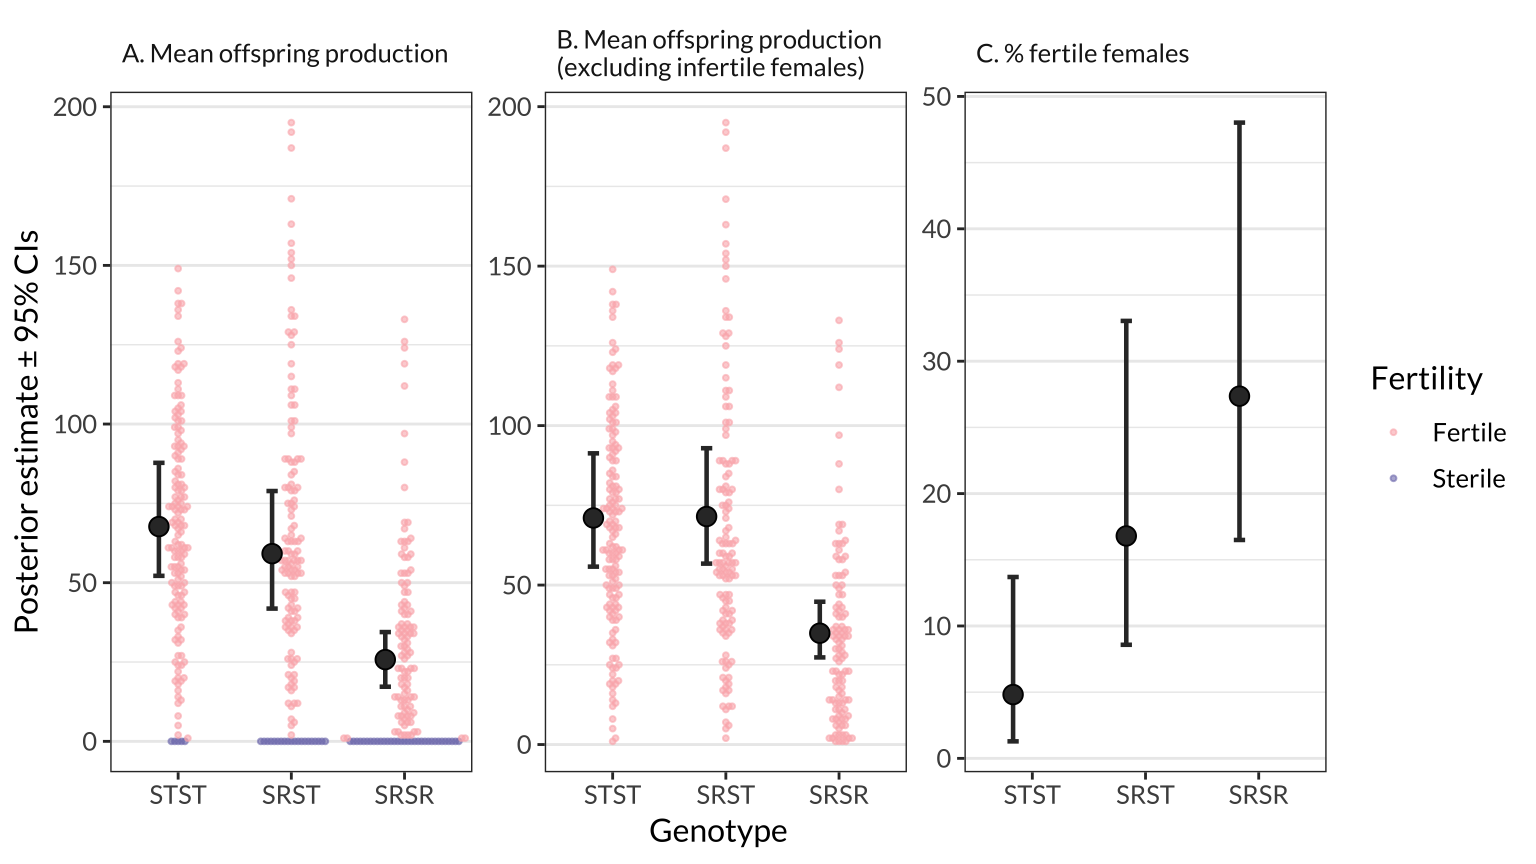
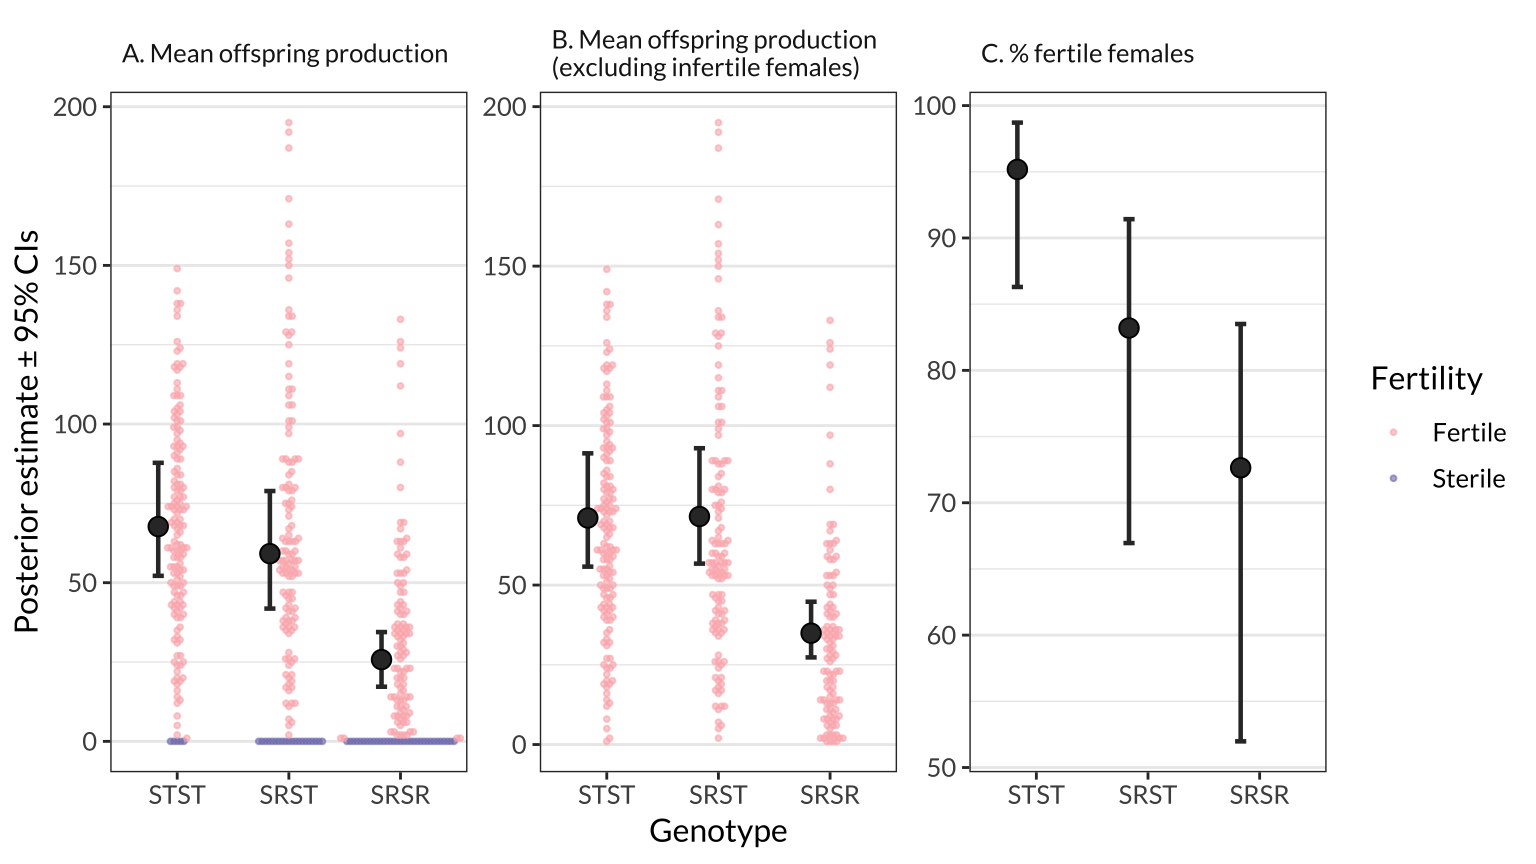
Build site.

diff --git a/docs/statistics.html b/docs/statistics.html
@@ -411,10 +411,10 @@ This reproducible <a href="http://rmarkdown.rstudio.com">R Markdown</a> analysis
 <div class="panel panel-default">
 <div class="panel-heading">
 <p class="panel-title">
-<a data-toggle="collapse" data-parent="#workflowr-checks" href="#strongRepositoryversionstrongfc7812e"> <span class="glyphicon glyphicon-ok text-success" aria-hidden="true"></span> <strong>Repository version:</strong> fc7812e </a>
+<a data-toggle="collapse" data-parent="#workflowr-checks" href="#strongRepositoryversionstrong44d4565"> <span class="glyphicon glyphicon-ok text-success" aria-hidden="true"></span> <strong>Repository version:</strong> 44d4565 </a>
 </p>
 </div>
-<div id="strongRepositoryversionstrongfc7812e" class="panel-collapse collapse">
+<div id="strongRepositoryversionstrong44d4565" class="panel-collapse collapse">
 <div class="panel-body">
 <p>
 Great! You are using Git for version control. Tracking code development and connecting the code version to the results is critical for reproducibility. The version displayed above was the version of the Git repository at the time these results were generated. <br><br> Note that you need to be careful to ensure that all relevant files for the analysis have been committed to Git prior to generating the results (you can use <code>wflow_publish</code> or <code>wflow_git_commit</code>). workflowr only checks the R Markdown file, but you know if there are other scripts or data files that it depends on. Below is the status of the Git repository when the results were generated:
@@ -424,6 +424,7 @@ Ignored files:
     Ignored:    .DS_Store
     Ignored:    .Rhistory
     Ignored:    .Rproj.user/
+    Ignored:    analysis/figure/
 
 </code></pre>
 <p>
@@ -462,6 +463,40 @@ Message
 </tr>
 </thead>
 <tbody>
+<tr>
+<td>
+Rmd
+</td>
+<td>
+44d4565
+</td>
+<td>
+lukeholman
+</td>
+<td>
+2019-06-28
+</td>
+<td>
+First complete commit
+</td>
+</tr>
+<tr>
+<td>
+html
+</td>
+<td>
+e2cfeac
+</td>
+<td>
+lukeholman
+</td>
+<td>
+2019-06-28
+</td>
+<td>
+Build site.
+</td>
+</tr>
 <tr>
 <td>
 Rmd
@@ -1941,7 +1976,7 @@ predicted_mean &lt;- data.frame(new, fitted(model, newdata = new, re_formula = N
   mutate(facet = &quot;A. Mean offspring production&quot;)
 predicted_mean_when_fertile &lt;- data.frame(new, fitted(model, newdata = new, dpar = &quot;mu&quot;, re_formula = NA)) %&gt;%
   mutate(facet = &quot;B. Mean offspring production\n(excluding infertile females)&quot;)
-predicted_prop_infertile &lt;- data.frame(new, fitted(model, newdata = new, dpar = &quot;hu&quot;, re_formula = NA)) %&gt;% 
+predicted_prop_fertile &lt;- data.frame(new, fitted(model, newdata = new, dpar = &quot;hu&quot;, re_formula = NA)) %&gt;% 
   mutate(facet = &quot;C. % fertile females&quot;,
          Estimate = 100 * (1 - Estimate), Q2.5 = (1 - Q2.5) * 100, Q97.5 = (1 - Q97.5) * 100)
 
@@ -1970,26 +2005,26 @@ predicted_mean_when_fertile_all_iso &lt;- data.frame(
   posterior_means_when_fertile %&gt;% lapply(posterior_summary) %&gt;% do.call(&quot;rbind&quot;, .),
   facet = &quot;B. Mean offspring production\n(excluding infertile females)&quot;) 
 
-posterior_means_prop_infertile &lt;- 
+posterior_means_prop_fertile &lt;- 
   data.frame(new, as.data.frame(t(fitted(model, newdata = new, dpar = &quot;hu&quot;, re_formula = NA, summary = FALSE)))) %&gt;%
   select(-body_size, -female_age, -Isoline) %&gt;%
   group_by(genotype) %&gt;%
-  summarise_all(~ 100 * mean(.x)) %&gt;% select(-genotype) %&gt;% t() %&gt;% as.data.frame() %&gt;%
+  summarise_all(~ 100 * (1 - mean(.x))) %&gt;% select(-genotype) %&gt;% t() %&gt;% as.data.frame() %&gt;%
   rename(STST = V1, SRST = V2, SRSR = V3)
   
-predicted_prop_infertile_all_iso &lt;- data.frame(
+predicted_prop_fertile_all_iso &lt;- data.frame(
   genotype = c(&quot;STST&quot;, &quot;SRST&quot;, &quot;SRSR&quot;), Isoline = &quot;All&quot;, 
-  posterior_means_prop_infertile %&gt;% lapply(posterior_summary) %&gt;% do.call(&quot;rbind&quot;, .),
+  posterior_means_prop_fertile %&gt;% lapply(posterior_summary) %&gt;% do.call(&quot;rbind&quot;, .),
   facet = &quot;C. % fertile females&quot;) 
 
 preds_figure1 &lt;- bind_rows(predicted_mean_all_iso,
                    predicted_mean_when_fertile_all_iso,
-                   predicted_prop_infertile_all_iso) %&gt;%
+                   predicted_prop_fertile_all_iso) %&gt;%
   mutate(genotype = factor(genotype, levels = c(&quot;STST&quot;, &quot;SRST&quot;, &quot;SRSR&quot;)))
 
 preds_figure2 &lt;- bind_rows(predicted_mean,
                          predicted_mean_when_fertile,
-                         predicted_prop_infertile) %&gt;%
+                         predicted_prop_fertile) %&gt;%
   mutate(facet = factor(facet, levels = unique(facet)),
          genotype = factor(genotype, levels = c(&quot;STST&quot;, &quot;SRST&quot;, &quot;SRSR&quot;))) %&gt;%
   select(-body_size, -female_age)
@@ -2119,19 +2154,20 @@ lukeholman
 </div>
 <div id="calculated-pairwise-differences-between-genotypes" class="section level2">
 <h2>Calculated pairwise differences between genotypes</h2>
+<p><strong>Table 1</strong>: Pairwise comparisons of genotypes for three measures of female fitness: mean offspring production, mean offspring production (not including females that produced zero offspring), and the % females that produced at least one offspring. The difference in means column shows the posterior estimate of the difference in means in its original units (i.e. offspring, or percentage points), where a negative difference means that genotype with more copies of SR has lower female fitness (parentheses show the 95% quantiles of this posterior, and the Est.Error column gives the average deviation from the mean). The relative difference column expresses the difference in relative terms; e.g. the first row shows that mean number of offspring produced by SRST females was 87.7% as much as that of STST females. Finally, the p column shows the posterior probability that the true difference in means is zero or of the opposite sign to the estiamte shown here (similar to a conventional p-value).</p>
 <pre class="r"><code>compare_means &lt;- function(mean1, mean2, posterior){
   difference &lt;- posterior[, mean2] - posterior[, mean1]
   relative &lt;- median(posterior[, mean2] / posterior[, mean1])
-  p_value &lt;- as.numeric(p_direction(difference)) / 100
+  p_value &lt;- as.numeric(100 - p_direction(difference)) / 100
   as_tibble(posterior_summary(as.mcmc(difference))) %&gt;%
     mutate(Comparison = paste(mean1, mean2, sep = &quot; \u2192 &quot;),
-           `% difference` = format(round(100 * relative, 1), nsmall = 1),
+           `Relative difference` = paste(format(round(100 * relative, 1), nsmall = 1), &quot;%&quot;, sep = &quot;&quot;),
            `95% CIs` = paste(&quot; (&quot;, format(round(Q2.5, 1), nsmall = 1), &quot; to &quot;, format(round(Q97.5, 1), nsmall = 1), &quot;%)&quot;, sep = &quot;&quot;),
            `Difference in means` = paste(format(round(Estimate, 2), nsmall = 2), `95% CIs`, sep = &quot;&quot;),
            `Fitness trait` = NA,
            p = p_value) %&gt;%
     select( -Q2.5, -Q97.5) %&gt;%
-    select(Comparison, `Fitness trait`, `Difference in means`, Est.Error, `% difference`, p)
+    select(Comparison, `Fitness trait`, `Difference in means`, Est.Error, `Relative difference`, p)
 }
 
 table_of_contrasts &lt;- bind_rows(
@@ -2141,9 +2177,9 @@ table_of_contrasts &lt;- bind_rows(
   compare_means(&quot;STST&quot;, &quot;SRST&quot;, posterior_means_when_fertile),
   compare_means(&quot;STST&quot;, &quot;SRSR&quot;, posterior_means_when_fertile),
   compare_means(&quot;SRST&quot;, &quot;SRSR&quot;, posterior_means_when_fertile),
-  compare_means(&quot;STST&quot;, &quot;SRST&quot;, posterior_means_prop_infertile),
-  compare_means(&quot;STST&quot;, &quot;SRSR&quot;, posterior_means_prop_infertile),
-  compare_means(&quot;SRST&quot;, &quot;SRSR&quot;, posterior_means_prop_infertile)
+  compare_means(&quot;STST&quot;, &quot;SRST&quot;, posterior_means_prop_fertile),
+  compare_means(&quot;STST&quot;, &quot;SRSR&quot;, posterior_means_prop_fertile),
+  compare_means(&quot;SRST&quot;, &quot;SRSR&quot;, posterior_means_prop_fertile)
 ) %&gt;% mutate(`Fitness trait` = rep(c(&quot;Mean offspring production&quot;,
                                      &quot;Mean offspring production (excluding infertile females)&quot;,
                                      &quot;% fertile females&quot;), each = 3)) %&gt;%
@@ -2169,7 +2205,7 @@ Difference in means
 Est.Error
 </th>
 <th style="text-align:left;">
-% difference
+Relative difference
 </th>
 <th style="text-align:left;">
 p
@@ -2193,10 +2229,10 @@ Mean offspring production
 6.98
 </td>
 <td style="text-align:left;">
-87.7
+87.7%
 </td>
 <td style="text-align:left;">
-0.8986
+0.1014
 </td>
 <td style="text-align:left;">
 </td>
@@ -2215,13 +2251,14 @@ Mean offspring production
 7.27
 </td>
 <td style="text-align:left;">
-38.3
+38.3%
 </td>
 <td style="text-align:left;">
-1.0000
+0.0000
 </td>
 <td style="text-align:left;">
-</td>
+<ul>
+<li></td>
 </tr>
 <tr>
 <td style="text-align:left;">
@@ -2237,13 +2274,14 @@ Mean offspring production
 6.78
 </td>
 <td style="text-align:left;">
-43.6
+43.6%
 </td>
 <td style="text-align:left;">
-1.0000
+0.0000
 </td>
 <td style="text-align:left;">
-</td>
+<ul>
+<li></td>
 </tr>
 <tr>
 <td style="text-align:left;">
@@ -2259,10 +2297,10 @@ Mean offspring production (excluding infertile females)
 6.55
 </td>
 <td style="text-align:left;">
-100.6
+100.6%
 </td>
 <td style="text-align:left;">
-0.5270
+0.4730
 </td>
 <td style="text-align:left;">
 </td>
@@ -2281,13 +2319,14 @@ Mean offspring production (excluding infertile females)
 6.85
 </td>
 <td style="text-align:left;">
-49.1
+49.1%
 </td>
 <td style="text-align:left;">
-1.0000
+0.0000
 </td>
 <td style="text-align:left;">
-</td>
+<ul>
+<li></td>
 </tr>
 <tr>
 <td style="text-align:left;">
@@ -2303,13 +2342,14 @@ Mean offspring production (excluding infertile females)
 6.90
 </td>
 <td style="text-align:left;">
-48.8
+48.8%
 </td>
 <td style="text-align:left;">
-1.0000
+0.0000
 </td>
 <td style="text-align:left;">
-</td>
+<ul>
+<li></td>
 </tr>
 <tr>
 <td style="text-align:left;">
@@ -2319,19 +2359,20 @@ STST → SRST
 % fertile females
 </td>
 <td style="text-align:left;">
-11.98 (4.0 to 23.6%)
+-11.98 (-23.6 to -4.0%)
 </td>
 <td style="text-align:left;">
 5.04
 </td>
 <td style="text-align:left;">
-383.7
+88.1%
 </td>
 <td style="text-align:left;">
-0.9985
+0.0015
 </td>
 <td style="text-align:left;">
-</td>
+<ul>
+<li></td>
 </tr>
 <tr>
 <td style="text-align:left;">
@@ -2341,19 +2382,20 @@ STST → SRSR
 % fertile females
 </td>
 <td style="text-align:left;">
-22.54 (12.3 to 37.8%)
+-22.54 (-37.8 to -12.3%)
 </td>
 <td style="text-align:left;">
 6.29
 </td>
 <td style="text-align:left;">
-637.5
+77.3%
 </td>
 <td style="text-align:left;">
-1.0000
+0.0000
 </td>
 <td style="text-align:left;">
-</td>
+<ul>
+<li></td>
 </tr>
 <tr>
 <td style="text-align:left;">
@@ -2363,22 +2405,30 @@ SRST → SRSR
 % fertile females
 </td>
 <td style="text-align:left;">
-10.56 (0.4 to 21.8%)
+-10.56 (-21.8 to -0.4%)
 </td>
 <td style="text-align:left;">
 5.40
 </td>
 <td style="text-align:left;">
-165.6
+87.6%
 </td>
 <td style="text-align:left;">
-0.9796
+0.0204
 </td>
 <td style="text-align:left;">
-</td>
+<ul>
+<li></td>
 </tr>
 </tbody>
-</table>
+</table></li>
+</ul></li>
+</ul></li>
+</ul></li>
+</ul></li>
+</ul></li>
+</ul></li>
+</ul>
 <br>
 <p>
 <button type="button" class="btn btn-default btn-workflowr btn-workflowr-sessioninfo" data-toggle="collapse" data-target="#workflowr-sessioninfo" style="display: block;">
